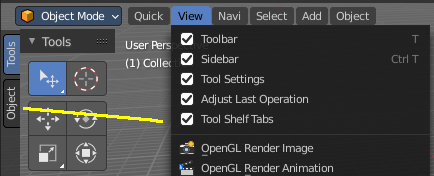
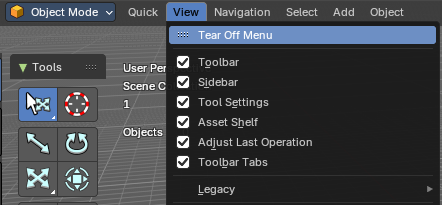
Toolbar Tabs rename and Compact Tabs (#1782)
* Toolbar Tabs rename and Compact Tabs

* Toolbar Tabs: new View menu picture, Compact Tabs picture, drop the manual width note

* docs: page status → needs-review [docs-bot]

* Compact Tabs picture: crop out the highlighted Search entry

---------

diff --git a/docs2/content/editors/3d-viewport/all-modes/header/view-menu.md b/docs2/content/editors/3d-viewport/all-modes/header/view-menu.md
@@ -56,15 +56,13 @@ Note that the Adjust Last Operation panel can also be called from the edit menu 
 
 ![Adjust Last Operation](/docs2/images/editors/3d-viewport/header/view-menu/adjust-last-operation-3.png)
 
-## Tool Shelf Tabs
+## Toolbar Tabs
 
-![Tool Shelf Tabs](/docs2/images/editors/3d-viewport/header/view-menu/tool-shelf-tabs.png)
+![Toolbar Tabs](/docs2/images/editors/3d-viewport/header/view-menu/tool-shelf-tabs.png)
 
-Shows or hides the tool shelf tabs. This tool shelf tabs contains tools from the header menus, and are a double menu entry by design. Here you can turn them off if you don't want to work with this tool set.
+Shows or hides the category tabs on the tool shelf. The tabs hold tools from the header menus, and are a double menu entry by design: they are faster to reach. Turn them off if you don't want to work with this tool set.
 
-![Tool Shelf Tabs](/docs2/images/editors/3d-viewport/header/view-menu/tool-shelf-tabs-2.png)
-
-Note that you need to adjust the width of the tool shelf manually afterwards since it does not automatically update the width of the tool shelf area.
+![Toolbar Tabs](/docs2/images/editors/3d-viewport/header/view-menu/tool-shelf-tabs-2.png)
 
 Note that you need to save the startup.blend to save the state of this checkbox.
 

diff --git a/docs2/content/extensions/core-extension-brush-panels.md b/docs2/content/extensions/core-extension-brush-panels.md
@@ -6,8 +6,8 @@ path:
   - Extensions
   - Bforartists Extensions
   - Core Extension - Brush Panels
-version: "5.1"
-status: draft
+version: "5.3"
+status: needs-review
 screenshots: "5.1"
 source:
   - 35.1 Core Extension - Brush Panels.odt
@@ -32,7 +32,7 @@ This adds a **Brushes Tab** to most painting and drawing modes and objects. This
 
 To use, go into a paint mode (**Sculpt, Texture Paint, Vertex Paint, Weight Paint or Grease Pencil Draw Mode**), select the Brush tab in the Tool Shelf to the left, and then select a brush. When you select a brush, the button will automatically select the brush operator and select the brush type stored in the brush library. You can link/append and create any new brush type for later use – you can also assign iconography on demand.
 
-If you don’t see the toolshelf tabs, go to View and turn on Tool Shelf Tabs.
+If you don’t see the tool shelf tabs, go to **View** and turn on **Toolbar Tabs**.
 
 To add brushes, you can use the add button in the Property Shelf under the Tool tab or in the Header brush type dropdown, you can add new brushes or remove brushes.
 

diff --git a/docs2/content/interface/tabs-and-panels.md b/docs2/content/interface/tabs-and-panels.md
@@ -6,7 +6,7 @@ path:
   - The Interface
   - Components
   - Panels and tabs
-version: "5.1"
+version: "5.3"
 status: needs-review
 screenshots: "5.1"
 source:
@@ -49,4 +49,10 @@ This can be done by clicking at the header of a panel and holding down ctrl.
 ![Tabs](/docs2/images/ui/interface/panels/tabs.png)
 
 The Sidebars can have Tabs to switch between different content. Also the Properties editor has them. The tabs helps to organize the available tools into categories. In the 3D view it's also a common place where addons adds themselves.
+
+### Compact Tabs
+
+![Compact Tabs](/docs2/images/ui/interface/panels/compact-tabs.png)
+
+Shows the sidebar tabs in a smaller size, with an icon instead of the name when the tab has one. This leaves more room for the panels. To turn it on or off, right-click a panel header in a sidebar and choose **Compact Tabs**. The setting applies to all sidebars.
 

diff --git a/docs2/content/editors/video-sequence-editor/header/index.md b/docs2/content/editors/video-sequence-editor/header/index.md
@@ -521,9 +521,9 @@ Shows or hides the sidebar at the right in the viewport.
 
 Show or hide the tool settings at the top.
 
-#### Tool shelf tabs
+#### Toolbar Tabs
 
-Show or hide the tool shelf tabs in the tool shelf.
+Shows or hides the category tabs on the tool shelf (the toolbar at the left). The tabs hold the same tools as the header menus, sorted by category, so you reach them with one click.
 
 #### Playback Controls
 
@@ -683,9 +683,9 @@ Displays the Adjust last operation panel down left.
 
 Display the channels in front of the timeline
 
-#### Tool Shelf Tabs
+#### Toolbar Tabs
 
-Show or hide the tool shelf tabs in the tool shelf.
+Shows or hides the category tabs on the tool shelf (the toolbar at the left). The tabs hold the same tools as the header menus, sorted by category, so you reach them with one click.
 
 #### Footer
 

diff --git a/docs2/content/editors/3d-viewport/all-modes/tool-shelf.md b/docs2/content/editors/3d-viewport/all-modes/tool-shelf.md
@@ -7,7 +7,7 @@ path:
   - "3D Viewport"
   - "All Modes"
   - "Tool Shelf"
-version: "5.1"
+version: "5.3"
 status: needs-review
 icon: tool_settings
 summary: "The tools of All Modes in the tool shelf."
@@ -109,7 +109,7 @@ You can also pin panels. This allows for example to display the snap tools below
 
 We won't explain the tools here, since they are already covered in the corresponding text menus.
 
-You can turn the tabs off in the View menu if you don't want to work with this tool set.
+You can turn the tabs off with **View › Toolbar Tabs** in the editor header if you don't want to work with this tool set.
 
 Note that you need to adjust the width of the tool shelf manually afterwards since it does not automatically update the width of the tool shelf area.
 

diff --git a/docs2/content/editors/uv-editor/header/index.md b/docs2/content/editors/uv-editor/header/index.md
@@ -586,9 +586,9 @@ Shows or hides the Adjust Last Operation panel down left.
 
 Note that the Adjust Last Operation menu item in the Edit menu in the main header and the Last button in the toolbar are not related and not functional with this last operator panel. It is an independent element.
 
-### Tool Shelf Tabs
+### Toolbar Tabs
 
-Show or hide the tabs in the tool shelf.
+Shows or hides the category tabs on the tool shelf (the toolbar at the left). The tabs hold the same tools as the header menus, sorted by category, so you reach them with one click.
 
 ### Legacy
 
